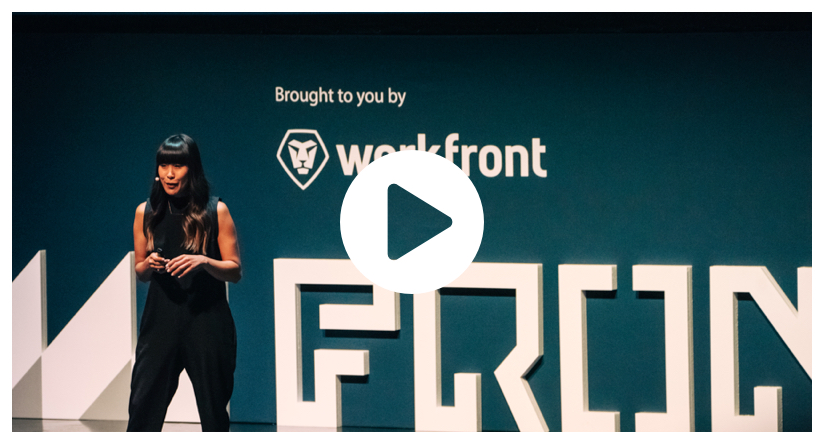
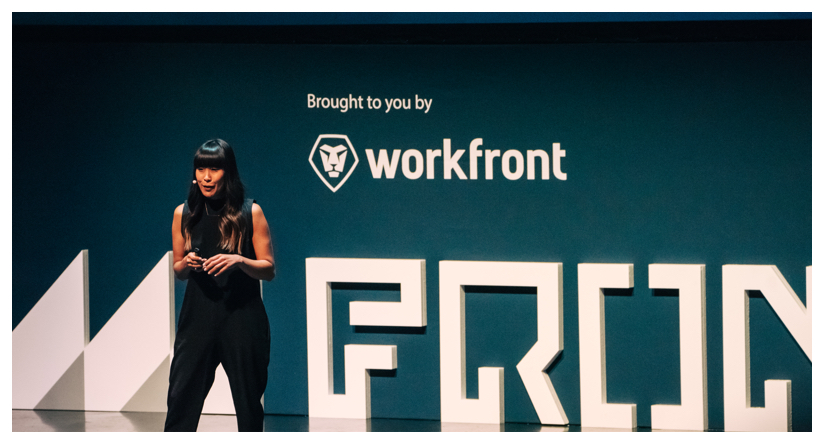
Updated thumbnails to home page

diff --git a/index.php b/index.php
@@ -29,7 +29,7 @@ require('includes/header.php');
 				<h3>Workshop Series</h3>
 				<p class="date-location">Salt Lake City, 8-9 November 2018</p>
 				<div href="https://www.youtube.com/watch?v=rTLIYQVHa90" class="thumnail video-thumbnail recap-video">
-					<img src="images/conf-scene002.jpg" alt="">
+					<img src="images/conf-scene002.jpg" alt="" style="width: 413px;">
 				</div>
 				<p class="description">A 2 day, hands-on, workshop series to learn to create amazing products and work like the teams you hear from at Front.</p>
 				<p><a href="/workshops" class="button">Learn More</a></p>
@@ -38,7 +38,7 @@ require('includes/header.php');
 				<h3>Onsite Training</h3>
 				<p class="date-location">Name your date</p>
 				<div class="thumnail">
-					<img src="images/conf-scene003.jpg" alt="">
+					<img src="images/conf-scene003.jpg" alt="" style="width: 413px;">
 				</div>
 				<p class="description">Let us to bring Front to you. Design your perfect training program from our catalog of full-day, premium workshops.</p>
 				<p><a href="/onsite" class="button">Learn More</a></p>
